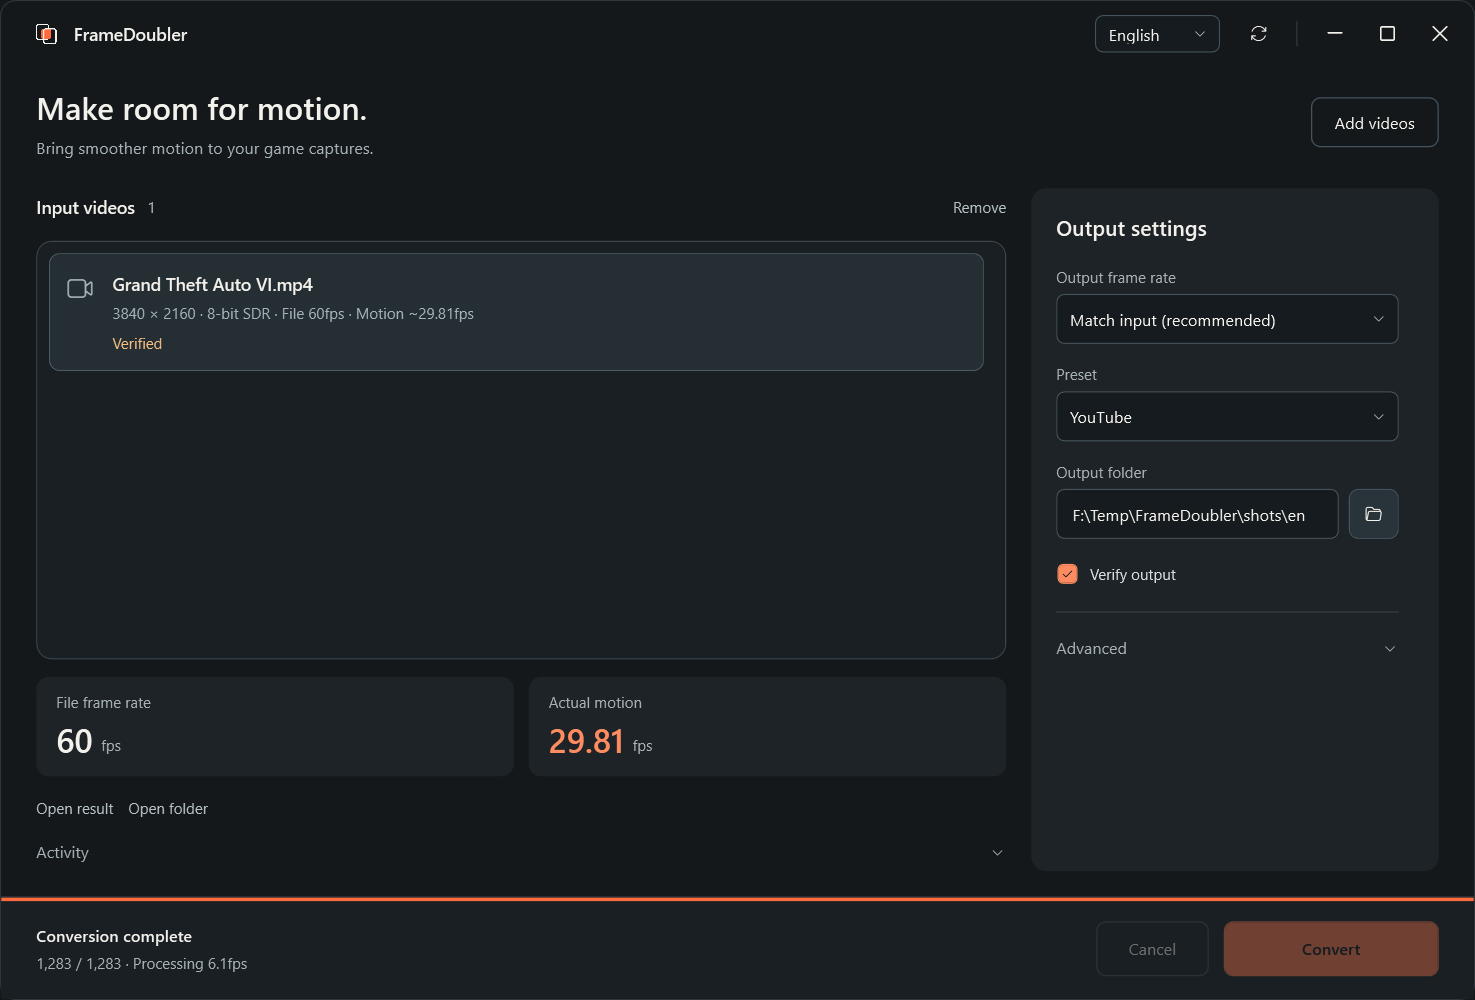
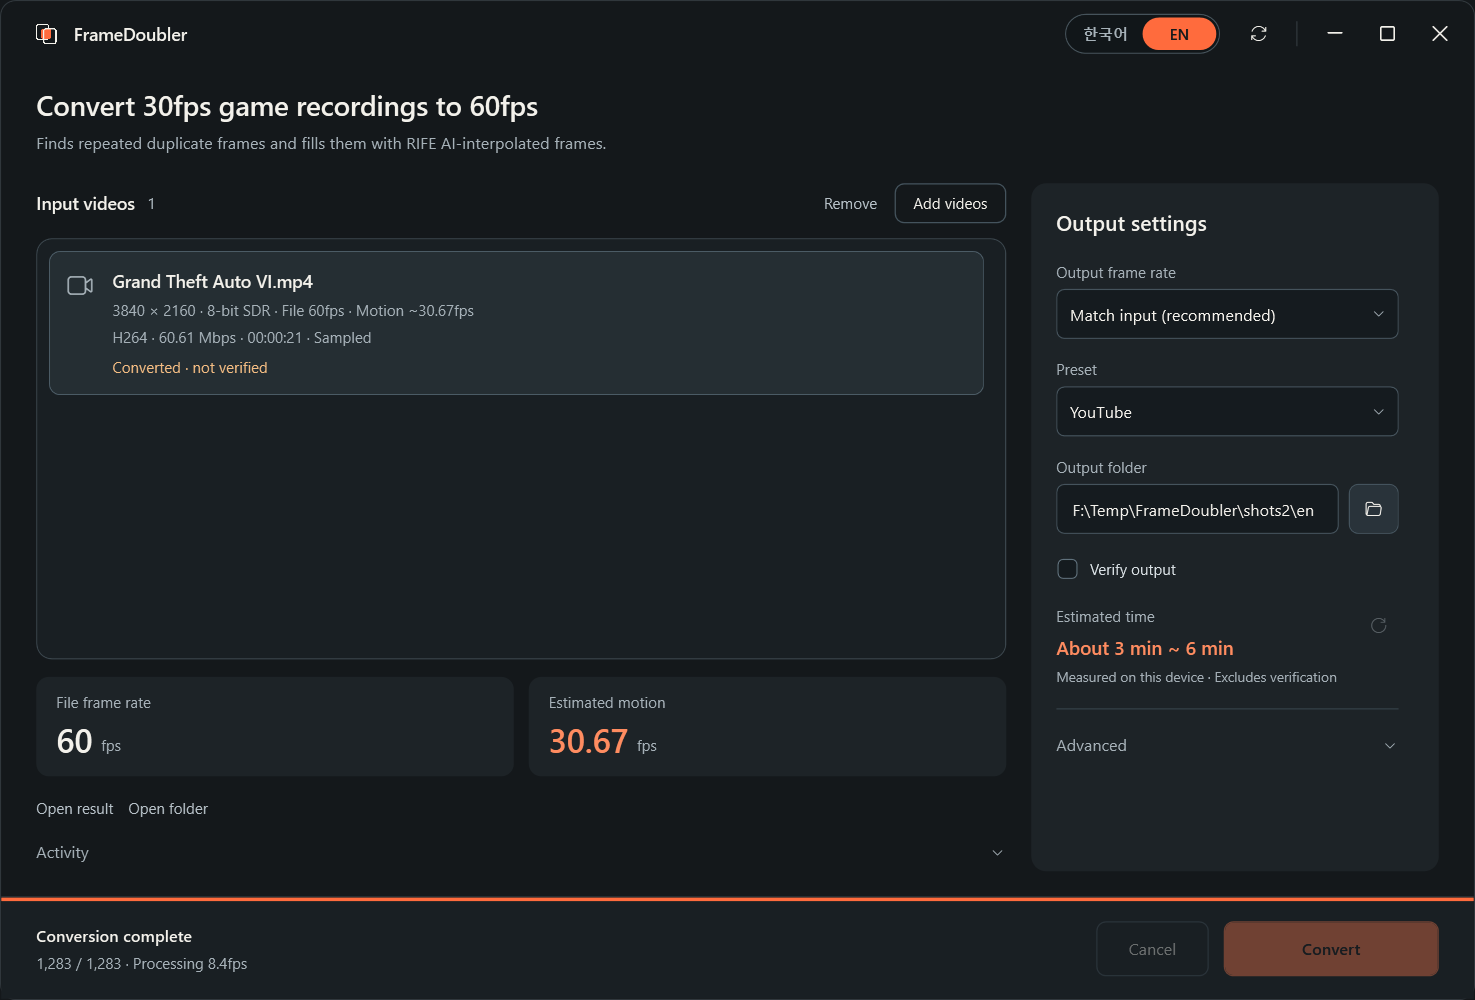
Refresh screenshots for the new header, language switch and time estimate
Main window captures (Korean and English) come from real sample 2 conversions on the final 1.0.0 package with verification off; empty-window and update captures from --render-preview. README notes the conversion-only time.

diff --git a/CHANGELOG.md b/CHANGELOG.md
@@ -23,7 +23,7 @@
 - **YouTube와 품질 우선 프리셋**: YouTube 프리셋은 해상도와 fps에 맞는 권장 비트레이트의 MP4를 만듭니다.
 - **길이, 오디오 싱크, 색상 보존**: 원본 영상의 길이, 오디오 시작 시각, 색상 정보를 출력에 그대로 유지합니다.
 - **선택할 수 있는 출력 검증**: 필요하면 변환 뒤에 프레임레이트, 길이, 오디오 동기, 색상, 남은 움직임 중복 비율을 검사합니다. 기본으로는 꺼져 있으며, 켜면 예상 소요 시간에도 반영됩니다.
-- **Windows 데스크톱 화면**: 클릭, 끌어 놓기, `Ctrl+O`로 영상을 추가하고 대기열로 처리합니다. 고급 설정과 처리 기록은 접어 두며, 한국어와 영어를 지원합니다.
+- **Windows 데스크톱 화면**: 클릭, 끌어 놓기, `Ctrl+O`로 영상을 추가하고 대기열로 처리합니다. 고급 설정과 처리 기록은 접어 두며, 제목 표시줄의 스위치로 한국어와 영어를 바로 전환합니다.
 - **포터블 실행**: 압축을 풀어 바로 실행합니다. 설정, 성능 기록, 작업 파일은 모두 실행 파일이 있는 폴더에 저장합니다.
 - **트레이 아이콘**: 창을 최소화하면 트레이에서 계속 실행됩니다. 트레이 메뉴에서 창 열기, GitHub 저장소 열기, 업데이트, 종료를 선택합니다.
 - **검증된 업데이트**: GitHub의 안정 릴리스를 확인하고, SHA-256과 모든 파일의 해시가 일치할 때에만 설치합니다. 설정과 성능 기록은 그대로 이어지며, 교체에 실패하면 이전 버전으로 되돌립니다.

diff --git a/README.md b/README.md
@@ -129,7 +129,7 @@ FrameDoubler   A  A½ B  B½ C  C½     파일 60fps · 움직임 60fps
 | 남은 움직임 중복 | 0.48% (기준 1% 이하) |
 | 길이 차이 / 최대 오디오 동기 변화 | 0ms / 6.83ms |
 | 입력 중복 비율 | 50.31% (움직이는 프레임의 절반이 중복) |
-| 처리 시간 (변환과 검증) | 약 200초 (두 번 측정: 196.8초, 201.2초 · RTX 4080 SUPER, i7-14700KF) |
+| 처리 시간 | 변환만 약 157초, 변환과 검증 약 200초 (RTX 4080 SUPER, i7-14700KF) |
 
 처리 시간과 결과는 영상의 내용과 장치에 따라 달라집니다.
 
